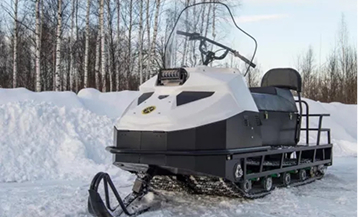
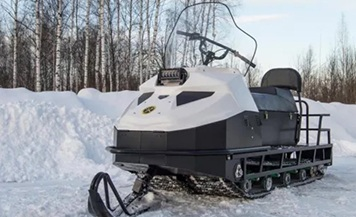
adaptive

diff --git a/src/styles/_base.scss b/src/styles/_base.scss
@@ -2046,6 +2046,10 @@ h1, h2, h3{
           @include button__transparent();
           color: var(--secondary-color);
         }
+        .product-card__questions__button__mobile{
+          @include button;
+          display: none;
+        }
       }
     }
     .product-card__reviews{
@@ -2158,6 +2162,10 @@ h1, h2, h3{
         .product-card__reviews__button{
           @include button__transparent();
           color: var(--secondary-color);
+        }
+        .product-card__reviews__button__mobile{
+          @include button;
+          display: none;
         }
       }
     }
@@ -2410,6 +2418,7 @@ h1, h2, h3{
         .swiper-wrapper{
           .swiper-slide{
             .product-card__products__item{
+              box-shadow: 5px 6px 9.7px #0000000D;
               border-radius: 10px;
               overflow: hidden;
               background-color: #fff;
@@ -3923,6 +3932,12 @@ h1, h2, h3{
         .accordion{
           margin: 42px 0;
         }
+        .product-card__specifications__buttons{
+          .product-card__specifications__button, .product-card__specifications__button:nth-child(2){
+            padding: 13.5px 20px;
+            font-size: 14px;
+          }
+        }
       }
       .product-card__videoReviews{
         h3,b{
@@ -3968,6 +3983,9 @@ h1, h2, h3{
                   right: -14px;
                   left: auto;
                   transform: rotate(180deg);
+                }
+                p{
+                  font-size: 14px;
                 }
               }
             }
@@ -5157,8 +5175,10 @@ h1, h2, h3{
             .swiper-wrapper{
               .swiper-slide{
                 .video__container{
-                  width: 268px;
-                  height: 374px;
+                  .video__item{
+                    width: 268px;
+                    height: 374px;
+                  }
                   a{
                     min-height: 42px;
                     font-size: 14px;
@@ -5187,6 +5207,25 @@ h1, h2, h3{
         }
         .accordion{
           margin: 38px 0;
+          .accordion__inner{
+            .accordion__item{
+              .accordion__content{
+                .accordion__parameter{
+                  padding: 10px 15px;
+                }
+              }
+            }
+          }
+        }
+        .product-card__specifications__buttons{
+          flex-wrap: wrap;
+          .product-card__specifications__button, .product-card__specifications__button:nth-child(2){
+            margin-left: 0px;
+            width: 100%;
+          }
+          .product-card__specifications__button{
+            margin-bottom: 10px;
+          }
         }
       }
       .product-card__videoReviews{
@@ -5195,7 +5234,26 @@ h1, h2, h3{
           font-size: 22px;
         }
         .product-card__videoReviews__swiper__top{
-          margin-bottom: 40px;
+          display: none;
+        }
+        .swiper__product-card__videoReviews{
+          .swiper-wrapper{
+            .swiper-slide{
+              .video__container{
+                margin-bottom: 15px;
+                .video__item{
+                  width: 268px;
+                  height: 373px;
+                }
+              }
+              span{
+                font-size: 14px;
+              }
+            }
+          }
+          .scrollbar{
+            margin-top: 15px;
+          }
         }
       }
       .product-card__questions{
@@ -5204,9 +5262,13 @@ h1, h2, h3{
             font-size: 22px;
           }
           margin-bottom: 38px;
+          .product-card__questions__button{
+            display: none;
+          }
         }
         .product-card__fac{
           .product-card__fac__item{
+            margin-bottom: 40px;
             .product-card__fac__question{
               .product-card__fac__question__container{
                 padding: 20px 20px 20px 20px;
@@ -5230,6 +5292,22 @@ h1, h2, h3{
             }
           }
         }
+        .product-card__fac__bottom{
+          width: 100%;
+          display: flex;
+          flex-wrap: wrap;
+          .product-card__fac__button{
+            justify-content: center;
+            margin-bottom: 10px;
+            padding: 22px 30px;
+            width: 100%;
+          }
+          .product-card__questions__button__mobile{
+            display: flex;
+            padding: 20px 30px;
+            width: 100%;
+          }
+        }
       }
       .product-card__reviews{
         .product-card__reviews__top{
@@ -5237,6 +5315,25 @@ h1, h2, h3{
             font-size: 22px;
           }
           margin-bottom: 38px;
+          button{
+            display: none;
+          }
+        }
+        .product-card__reviews__bottom{
+          width: 100%;
+          display: flex;
+          flex-wrap: wrap;
+          .product-card__reviews__button{
+            justify-content: center;
+            margin-bottom: 10px;
+            padding: 22px 30px;
+            width: 100%;
+          }
+          .product-card__reviews__button__mobile{
+            display: flex;
+            padding: 20px 30px;
+            width: 100%;
+          }
         }
       }
       .product-card__delivery{
@@ -5247,29 +5344,39 @@ h1, h2, h3{
         .product-card__delivery__content{
           gap: 18px;
           .product-card__delivery__content__left{
-            padding: 40px 60px;
+            padding: 40px 30px;
+            flex-wrap: wrap;
             .product-card__delivery__content__left__container{
               justify-content: space-between;
-              gap: 0px;
-              margin-right: 20px;
+              gap: 25px;
+              order: 1;
+              margin-right: 0px;
               h4{
-                font-size: 22px;
+                font-size: 26px;
               }
               p{
-                font-size: 14px;
+                font-size: 20px;
               }
             }
             .product-card__delivery__content__left__qr{
-              width: 220px;
+              margin-bottom: 20px;
+              width: 100%;
+              justify-content: center;
+              img{
+                width: 280px;
+              }
             }
           }
           .product-card__delivery__content__right{
-            padding: 40px 60px;
+            padding: 40px 30px;
             ul{
               li{
                 .product-card__delivery__content__right__icon{
                   width: 20px;
                   height: 20px;
+                  p{
+                    font-size: 16px;
+                  }
                 }
                 p{
                   font-size: 14px;
@@ -5303,14 +5410,34 @@ h1, h2, h3{
           h3,b{
             font-size: 22px;
           }
+          .swiper__buttons{
+            display: none;
+          }
         }
         .swiper__product-card__products{
           .swiper-wrapper{
             .swiper-slide{
               display: flex;
               .product-card__products__item{
+                width: 260px;
                 .product-card__products__item__inner{
                   padding: 26px 20px 30px 20px;
+                  .product-card__products__item__name{
+                    margin-bottom: 26px;
+                  }
+                  .product-card__products__item__top{
+                    .product-card__products__item__tags{
+                      display: flex;
+                      flex: 1 1 auto;
+                      gap: 10px;
+                      margin-left: 0;
+                      .product-card__item__parameter{
+                        flex: 1 1 auto;
+                        text-align: center;
+                        margin-left: 0;
+                      }
+                    }
+                  }
                 }
                 .product-card__products__item__top--has-tags{
                   display: flex;
@@ -5318,17 +5445,8 @@ h1, h2, h3{
                   align-items: center;
                   gap: 10px;
                   > .product-card__item__parameter{
+                    text-align: center;
                     flex: 0 0 auto;
-                  }
-                  .product-card__products__item__tags{
-                    display: flex;
-                    flex: 1 1 auto;
-                    gap: 10px;
-                    margin-left: 0;
-                    .product-card__item__parameter{
-                      flex: 1 1 auto;
-                      margin-left: 0;
-                    }
                   }
                 }
                 .product-card__products__item__top--three{

diff --git a/pages/poduct-card.html b/pages/poduct-card.html
@@ -941,6 +941,12 @@
               </ul>
               <div class="product-card__fac__bottom">
                 <button type="button" class="product-card__fac__button">еще больше ответов</button>
+                <button type="button" class="product-card__questions__button__mobile" data-modal-open="questions">
+                  Задать вопрос
+                  <svg class="button__icon">
+                    <use xlink:href="#buttonArrow"></use>
+                  </svg>
+                </button>
               </div>
             </div>
             <div data-tab__content="reviews" class="product-card__reviews">
@@ -1033,6 +1039,12 @@
               </ul>
               <div class="product-card__reviews__bottom">
                 <button type="button" class="product-card__reviews__button">еще больше отзывов</button>
+                <button type="button" class="product-card__reviews__button__mobile" data-modal-open="reviews">
+                  Оставить отзыв
+                  <svg class="button__icon">
+                    <use xlink:href="#buttonArrow"></use>
+                  </svg>
+                </button>
               </div>
             </div>
             <div data-tab__content="delivery" class="product-card__delivery">
